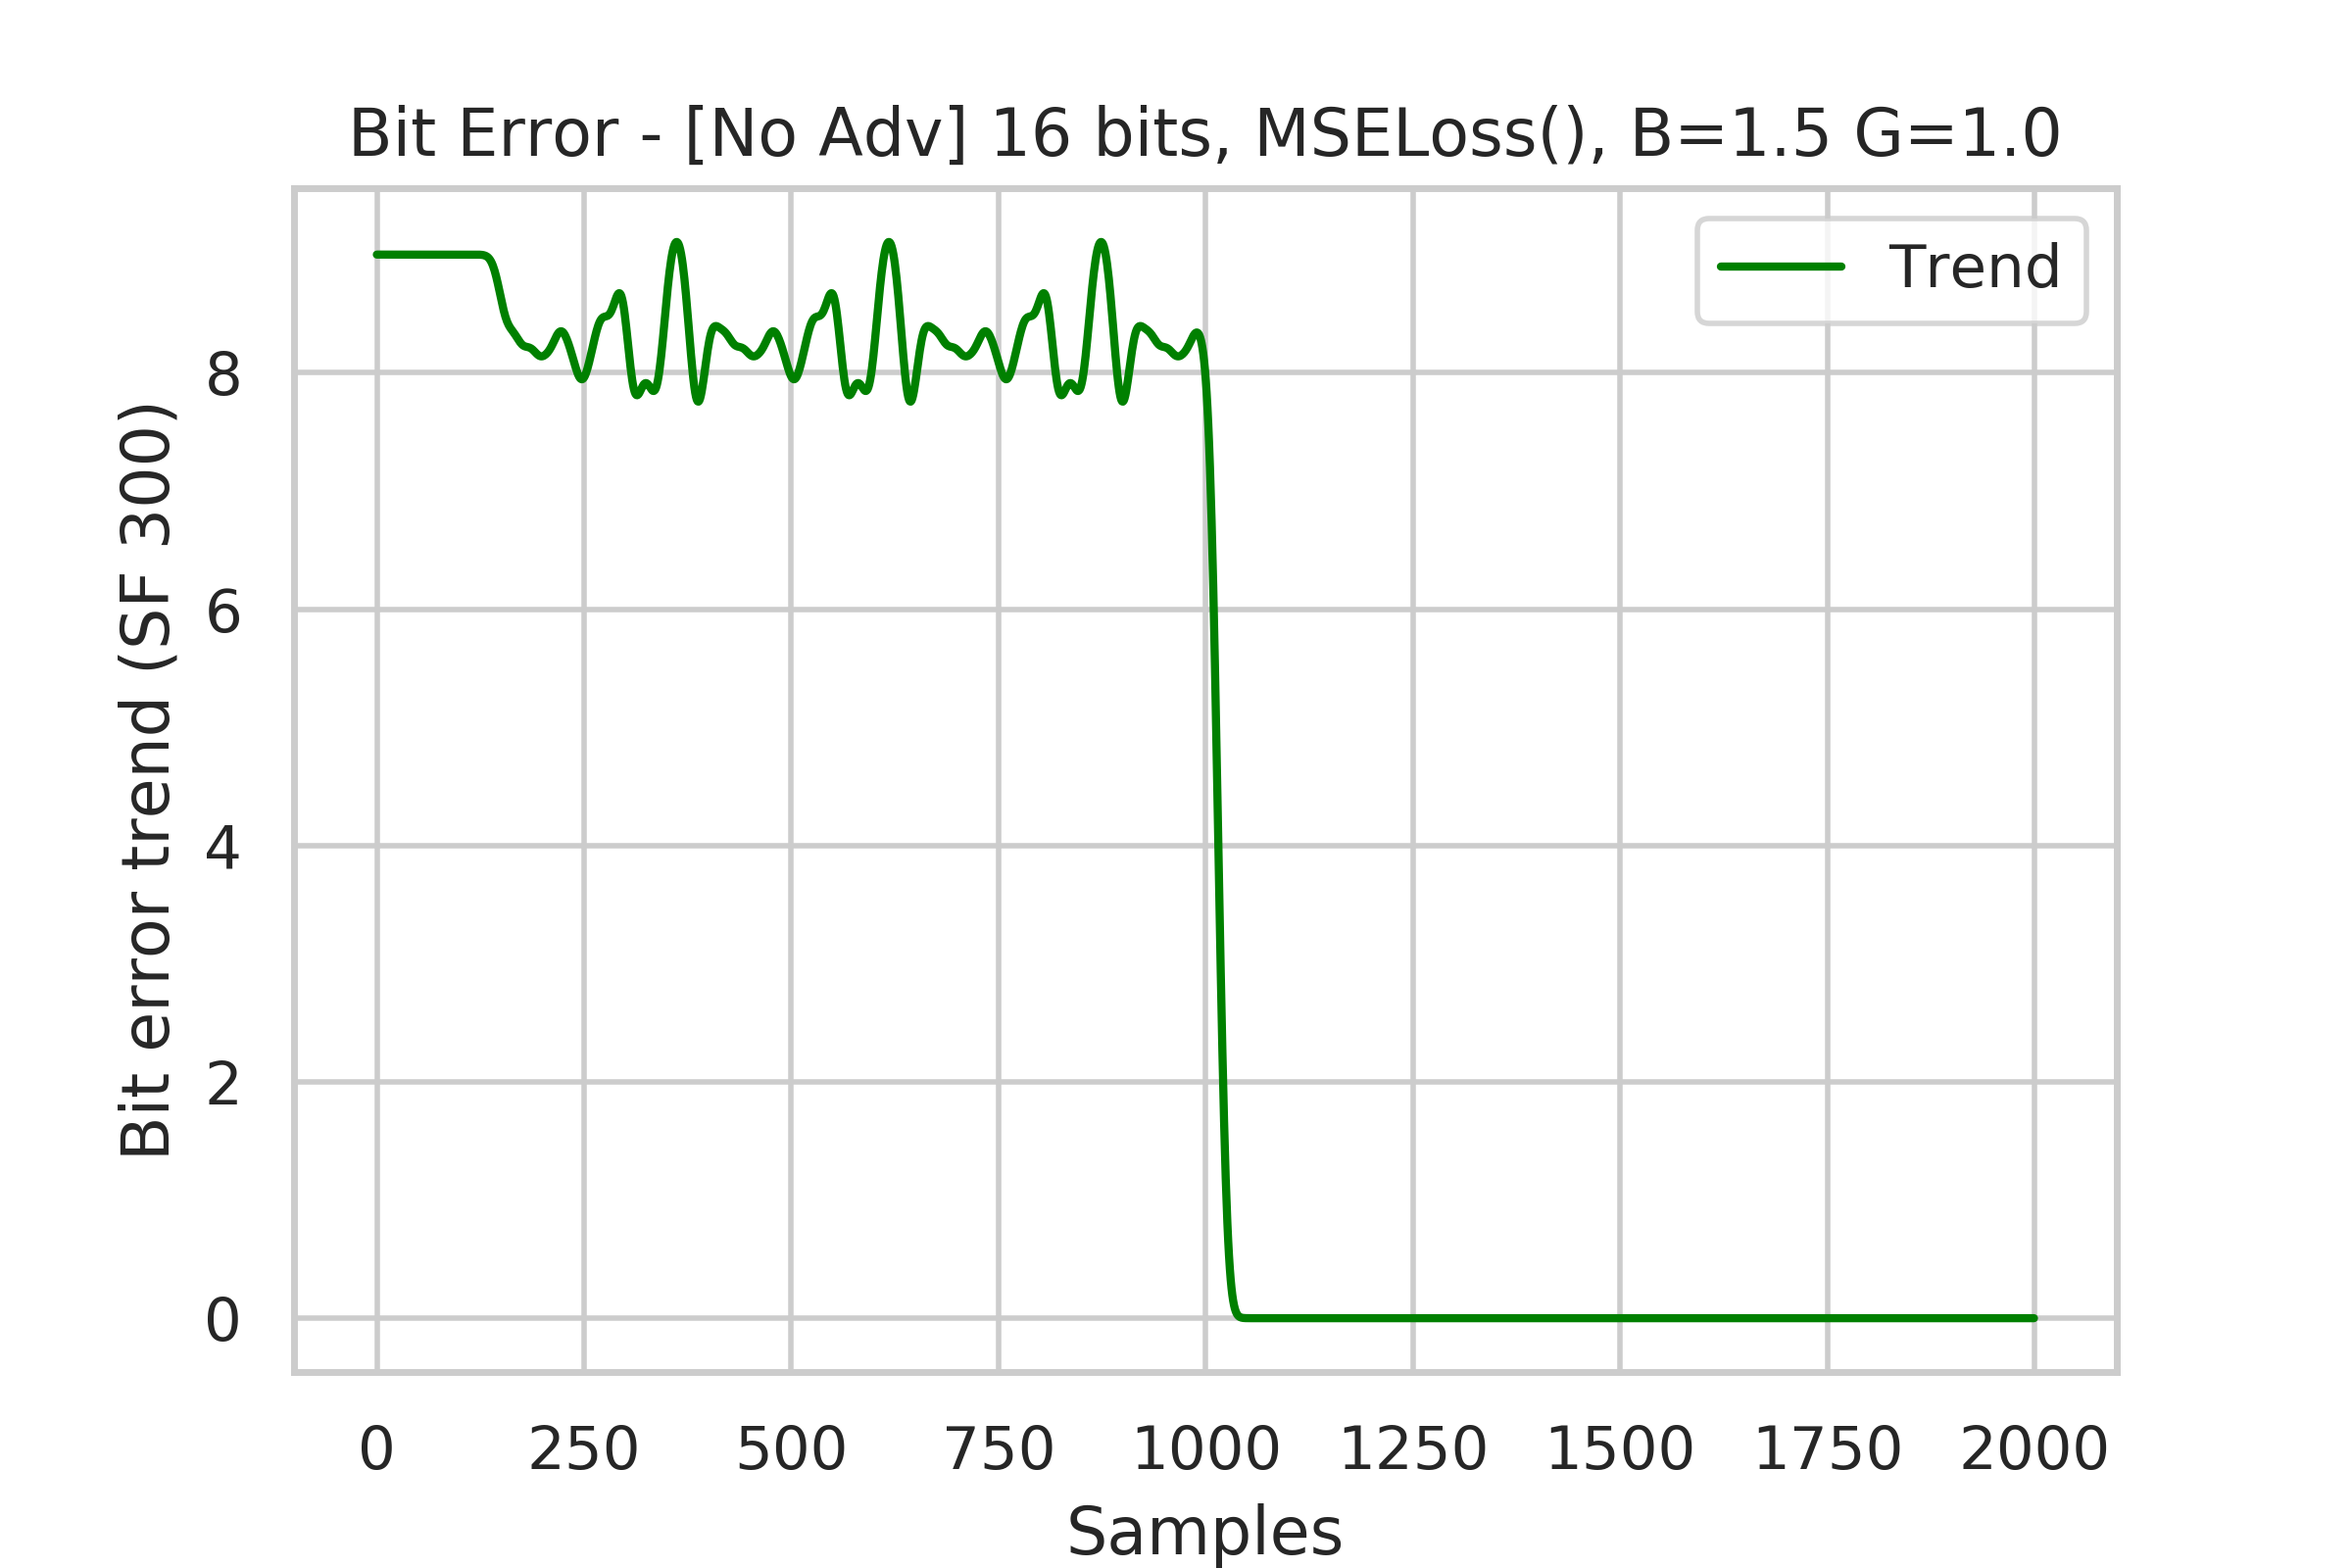
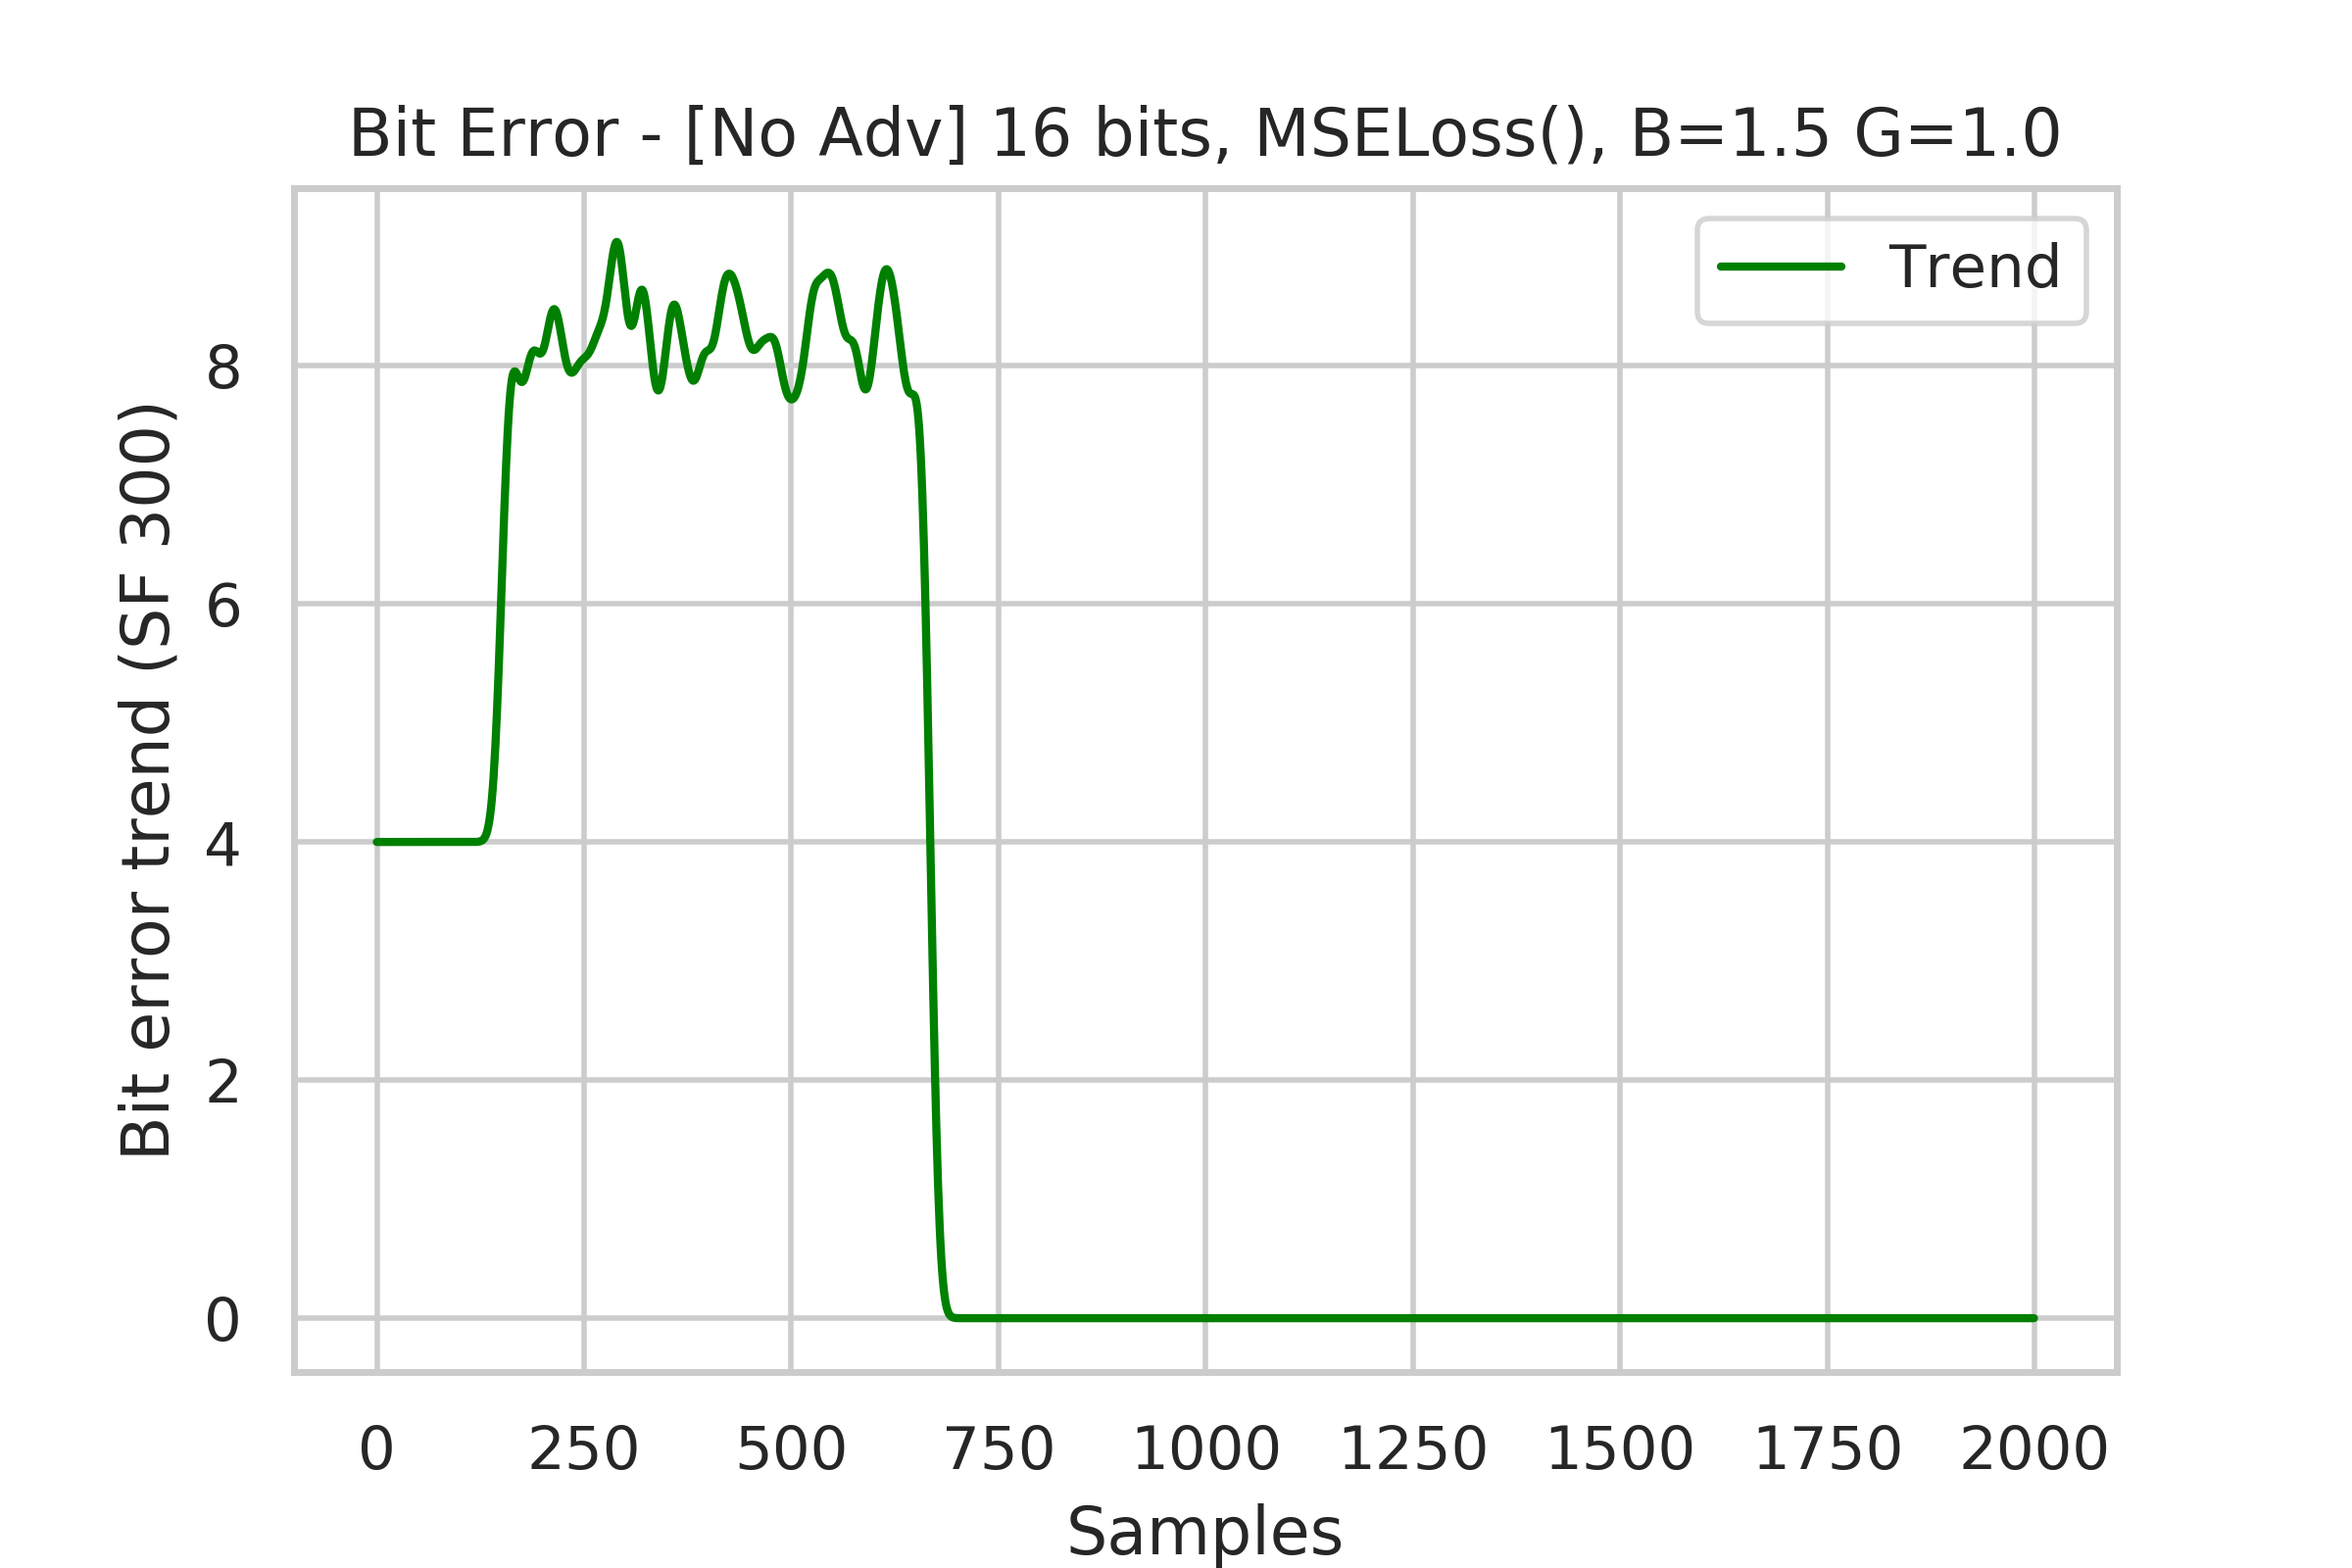
Version 19, Eve included

Changed region(s): [[0.0625, 0.1562, 0.9062, 0.8438]]

diff --git a/src/cryptonet.py b/src/cryptonet.py
@@ -20,7 +20,7 @@ from matplotlib import pyplot as plt
 import seaborn as sns
 sns.set()
 
-VERSION = 1
+VERSION = 17
 
 # %%
 # Define networks
@@ -143,8 +143,8 @@ alice = KeyholderNetwork(BLOCKSIZE)
 bob = KeyholderNetwork(BLOCKSIZE)
 eve = AttackerNetwork(BLOCKSIZE)
 
-# dist = nn.L1Loss()
 dist = nn.MSELoss()
+# dist = nn.L1Loss()
 # dist = nn.CrossEntropyLoss()
 # dist = nn.BCELoss()
 
@@ -179,6 +179,7 @@ eve_bits_err = []
 # Hyperparams
 BETA = 1.5
 GAMMA = 1.0
+OMEGA = 1.5
 DECISION_BOUNDARY = 0.5
 
 print(f'Model v{VERSION}')
@@ -192,13 +193,13 @@ for E in range(EPOCHS):
       P0 = torch.Tensor(P[0])
       P1 = torch.Tensor(P[1])
 
-      R = 0 #random.randint(0, 1)
+      R = random.randint(0, 1)
       Q = torch.Tensor(P[R])
 
       C = alice(torch.cat([Q, K], dim=0))
 
       Pb = bob(torch.cat([C, K], dim=0))
-      # Re = eve(torch.cat([P0, P1, C], dim=0))
+      Re = eve(torch.cat([P0, P1, C], dim=0))
 
       bob_err = 0
       for b in range(BLOCKSIZE):
@@ -210,19 +211,19 @@ for E in range(EPOCHS):
       bob_bits_err.append(bob_err)
       
       bob_reconst_loss = dist(Pb, Q) #- dist(Q, C)
-      # eve_recogni_loss = dist(Re, torch.Tensor([1 - R, R]))
+      eve_recogni_loss = dist(Re, torch.Tensor([1 - R, R]))
 
       # Linear loss
-      alice_loss = (BETA * bob_reconst_loss) #- dist(Q, C) #- (GAMMA * eve_recogni_loss)
+      alice_loss = (BETA * bob_reconst_loss) - (OMEGA * dist(Q, C)) - (GAMMA * eve_recogni_loss)
       # alice_loss = BETA * dist(Pb, Q)
 
       bob_reconst_loss.backward(retain_graph=True)
+      eve_recogni_loss.backward(retain_graph=True)
       alice_loss.backward(retain_graph=True)
-      # eve_recogni_loss.backward(retain_graph=True)
 
       opt_alice.step()
       opt_bob.step()
-      # opt_eve.step()
+      opt_eve.step()
 
       # delta_alice = alice_running_loss[-1] - alice_loss.item()
       # delta_bob = bob_running_loss[-1] - bob_reconst_loss.item()
@@ -235,17 +236,21 @@ for E in range(EPOCHS):
 
       alice_running_loss.append(alice_loss.item())
       bob_running_loss.append(bob_reconst_loss.item())
-      # eve_running_loss.append(eve_recogni_loss.item())
+      eve_running_loss.append(eve_recogni_loss.item())
       
       # break
 
     # print(f'Finished Batch {B}')
     
     recalc_plain()
-    # recalc_key()
+    recalc_key()
 
-  # Stop when bits error is consistently zero
-  if bob_bits_err[-100:] == [0 for _ in range(100)]:
+    # Stop when bits error is consistently zero for 1 batch
+    if bob_bits_err[-BATCHLEN:] == [0 for _ in range(BATCHLEN)]:
+      break
+
+  # Stop when bits error is consistently zero for 3 Batches
+  if bob_bits_err[-3*BATCHLEN:] == [0 for _ in range(3*BATCHLEN)]:
     break
 
 print('Finished Training')
@@ -254,7 +259,7 @@ print('Finished Training')
 # %%
 # Evaluation Plots
 sns.set_style('whitegrid')
-sf = min(int(BATCHES * BATCHLEN/10), 300)
+sf = min(int(BATCHES * BATCHLEN/10), 100)
 
 TITLE_TAG = f'[No Adv] {BLOCKSIZE} bits, {dist}, B={BETA} G={GAMMA}'
 FILE_TAG = f'{EPOCHS}E{BATCHES}x{BATCHLEN}v{VERSION}'
@@ -263,10 +268,12 @@ SAVEPLOT = False
 # Turn this line on and off to control plot saving
 SAVEPLOT = True
 
+# plt.xkcd()
 plt.plot(trendline(alice_running_loss[:2000], sf))
 plt.plot(trendline(bob_running_loss[:2000], sf))
-# plt.plot(trendline(eve_running_loss, sf))
+plt.plot(trendline(eve_running_loss[:2000], sf))
 plt.legend(['Alice', 'Bob', 'Eve'], loc='upper right')
+# plt.xlim(len(bob_running_loss) - 2000, len(bob_running_loss))
 plt.xlabel('Samples')
 plt.ylabel(f'Loss Trend (SF {sf})')
 plt.title(f'Training Loss - {TITLE_TAG}')
